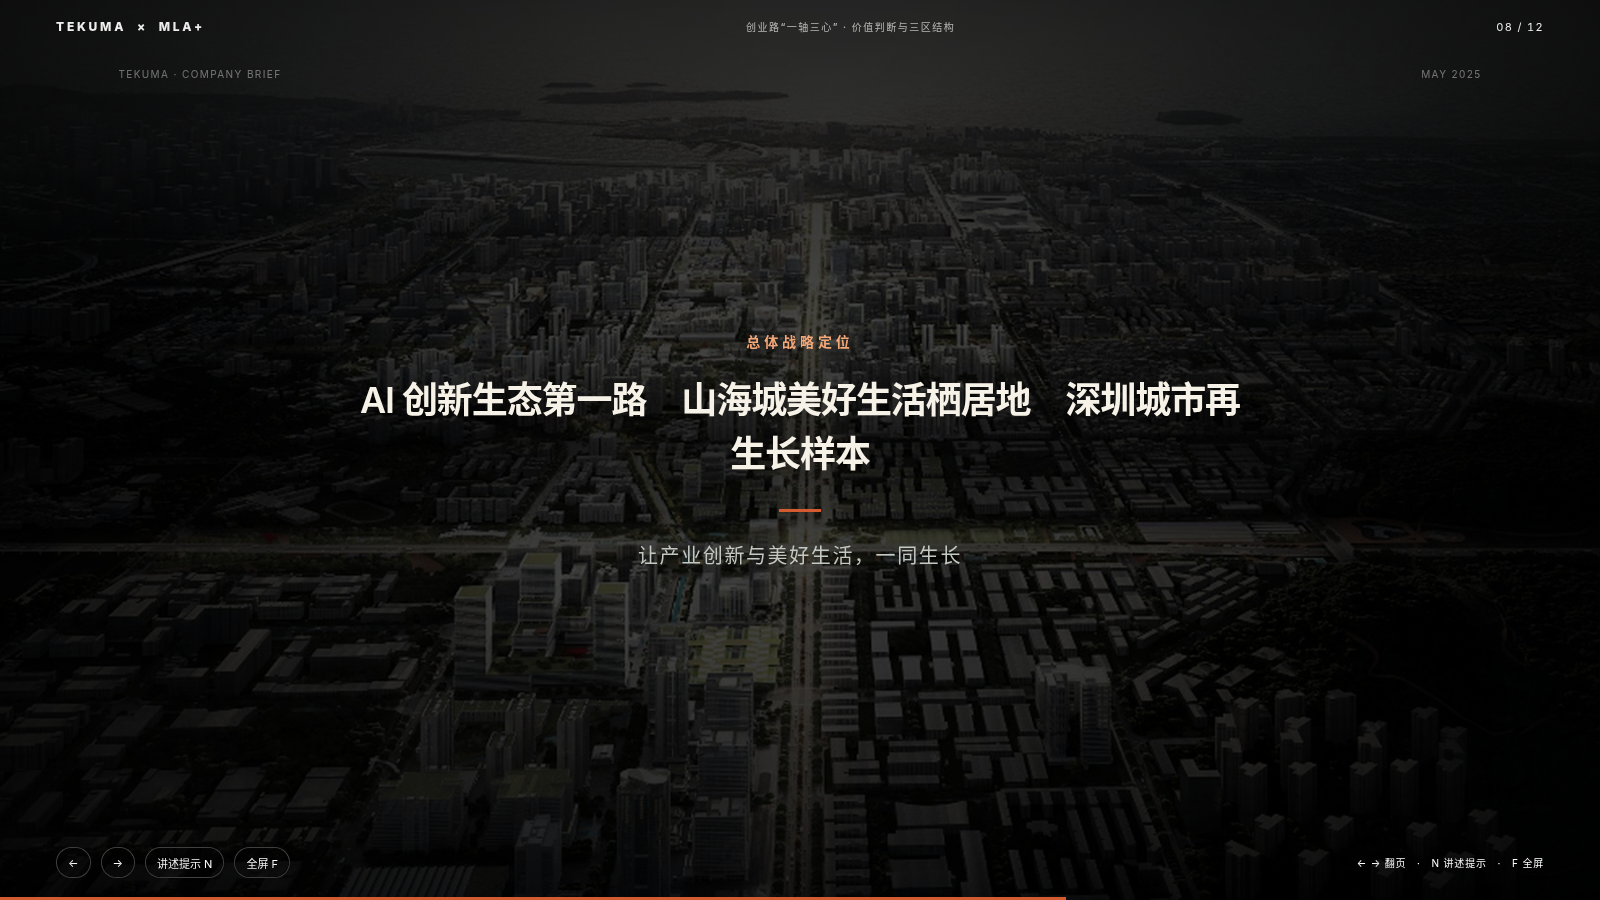
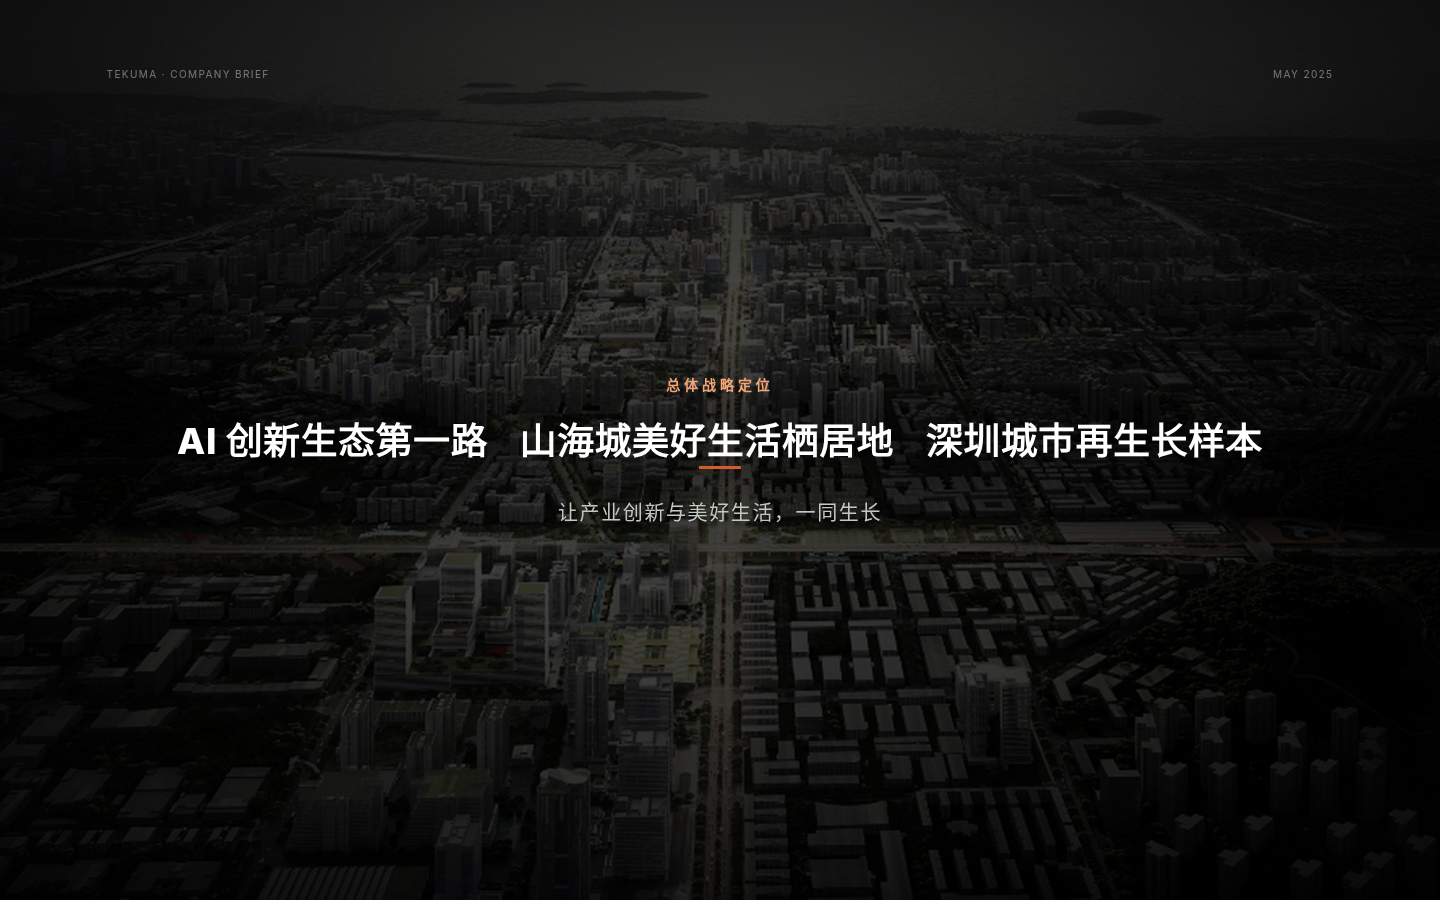
Center thesis page; bold nowrap strategy titles

diff --git a/index.html b/index.html
@@ -107,7 +107,7 @@
 .bridge-bg:after{content:"";position:absolute;inset:0;background:radial-gradient(ellipse at center,rgba(0,0,0,.25) 0%,rgba(0,0,0,.55) 70%,rgba(0,0,0,.72) 100%)}
 .bridge-content{position:relative;z-index:2;text-align:center;color:#f7f2e7;padding:0 6vw;max-width:1100px;margin:auto}
 .bridge-kicker{font-size:clamp(12px,1.2vw,14px);letter-spacing:.28em;font-weight:650;color:var(--orange2);margin-bottom:22px;text-transform:uppercase}
-.bridge-title{font-weight:580;font-size:clamp(22px,2.7vw,36px);line-height:1.5;letter-spacing:-.03em;margin:0 0 28px}
+.bridge-title{margin:0;font-size:clamp(22px,2.55vw,42px);font-weight:800;letter-spacing:.02em;line-height:1.35;color:#fff;display:flex;flex-wrap:nowrap;justify-content:center;align-items:baseline;gap:clamp(14px,2.2vw,36px);white-space:nowrap}
 .bridge-rule{width:42px;height:3px;background:var(--orange);margin:0 auto 28px}
 .bridge-slogan{font-size:clamp(15px,1.45vw,20px);letter-spacing:.08em;color:#c3c8c0;font-weight:480}
 .bridge-meta{position:absolute;top:7.5vh;left:7.4vw;right:7.4vw;z-index:3;display:flex;justify-content:space-between;font-size:10px;letter-spacing:.14em;color:rgba(255,255,255,.4);text-transform:uppercase;pointer-events:none}
@@ -170,6 +170,11 @@
 .col-visual .collage{padding:0;background:transparent;border:none;box-shadow:none}
 .collage .tile, .collage-aligned .tile{background:transparent}
 .collage img{display:block;width:100%}
+
+.bridge-title span{font-weight:800;font-family:Inter,"PingFang SC","Hiragino Sans GB","Microsoft YaHei",sans-serif;white-space:nowrap}
+
+.thesis-plain{display:flex;align-items:center;justify-content:center;height:100%;width:100%;text-align:center}
+.thesis-lines{margin:0;font-family:"Noto Serif SC","Songti SC","STSong",serif;font-size:clamp(20px,2.15vw,34px);font-weight:500;line-height:1.85;letter-spacing:.04em;color:var(--ink);max-width:48em}
 
 </style>
 </head>
@@ -446,25 +451,13 @@
 </section>
 
 <!-- 07 Closing thesis -->
-<section class="slide light" data-note="结题：存量如何成为未来。难点在正确理解当下与未来，把存量转化为真实需求，而非只做立面或一次性活化。">
-  <div class="slide-content">
-    <div class="closing-center">
-      <p class="smallcap">07 / 价值判断 · THESIS</p>
-      <h2 class="large-title">命题：<span class="accent">存量</span>如何成为<span class="accent" style="color:var(--forest)">未来</span></h2>
-      <div class="thin-rule" style="width:42px;margin:22px 0;background:var(--orange)"></div>
-      <div class="closing-thesis">
-        创业路拥有孕育创新的多元基因，<br>
-        也拥有海山城美好生活的稀缺地理。<br><br>
-        <strong>真正的难题是转化。</strong>
-      </div>
-      <div class="challenge-bar">
-        <p>
-          <strong>核心挑战：</strong>这个项目难点在于正确理解当下和未来——<br>
-          如何通过更新与运营，把现在的存量空间转化为未来创新工作和美好生活的<strong>真实需求</strong>，
-          而不只是新建筑、新立面，或一次性的活化事件。
-        </p>
-      </div>
-    </div>
+<section class="slide light" data-note="结题：这个项目难点在于正确理解当下和未来，如何通过更新与运营，把存量空间转化为未来创新工作与美好生活的真实需求。">
+  <div class="slide-content thesis-plain">
+    <p class="thesis-lines">
+      这个项目难点在于正确理解当下和未来，<br>
+      如何通过更新与运营，把现在的存量空间转化为未来创新工作和<br>
+      美好生活的真实需求。
+    </p>
   </div>
 </section>
 
@@ -475,7 +468,7 @@
   <div class="slide-content" style="display:flex;align-items:center;justify-content:center;height:100%">
     <div class="bridge-content">
       <div class="bridge-kicker">总体战略定位</div>
-      <h2 class="bridge-title">AI 创新生态第一路　山海城美好生活栖居地　深圳城市再生长样本</h2>
+      <h2 class="bridge-title"><span>AI 创新生态第一路</span><span>山海城美好生活栖居地</span><span>深圳城市再生长样本</span></h2>
       <div class="bridge-rule"></div>
       <div class="bridge-slogan">让产业创新与美好生活，一同生长</div>
     </div>
